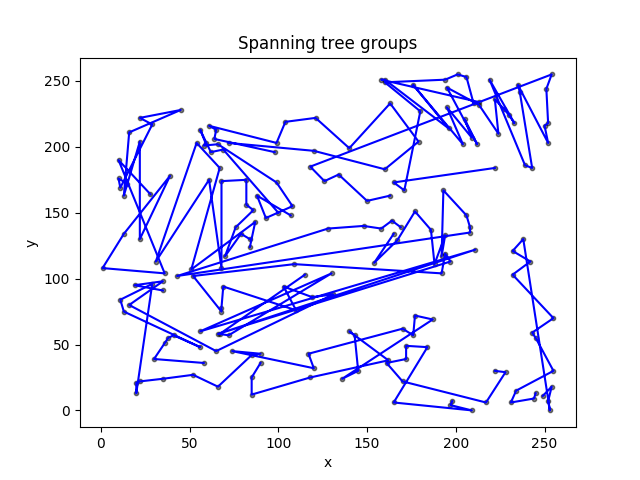
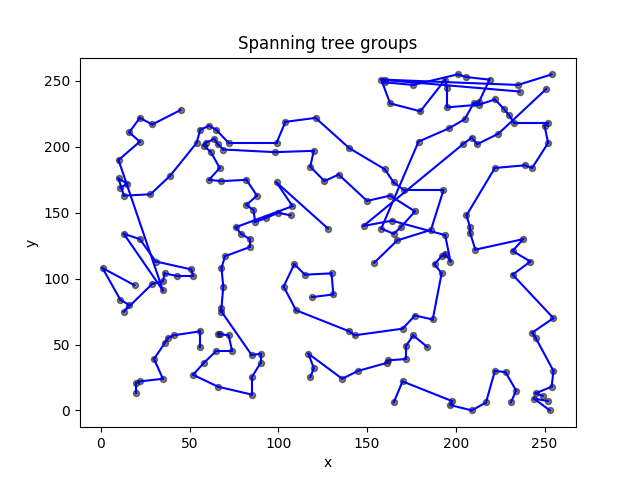
method, visualization and tests improved

Changed region(s): [[0.1562, 0.1562, 0.875, 0.875], [0.1875, 0.7812, 0.2188, 0.8438]]

diff --git a/controller.py b/controller.py
@@ -1,5 +1,6 @@
 import os
 import random
+import time
 import numpy as np
 from copy import deepcopy
 
@@ -13,45 +14,24 @@ class Controller:
     def createGraphsRandomMethod(self):
         allRandomPoints = random.sample(range(1, 201), 200)
         plotData = list(self._divideChunks(allRandomPoints, 20))
-        # check if sum is equal points number
 
         return plotData
 
     def _minValueNotZero(self, myList):
-        minVal = 99999
-        # print(myList)
+        minVal = 9999
+
         for x in myList:
             if float(x) != float(0) and x < minVal:
                 minVal = x
-
-        # print('choosed')
-        # print(minVal)
-
-        # if float(minVal) == float(0):
-        #     print('end with IS YES AS 0')
-        #     print(minVal)
-        # else:
-        #     print('end with NOT 0')
-        #     print(minVal)
-        #     print('myList')
-        #     print(myList)
-        #     print('INDEX IN FUNCTION')
-        #     print(myList.index(minVal))
-
-        # print('minVal')
-        # print(minVal)
 
         return minVal
 
     def test(self):
         tab = [215.87033144922904, 44.9221548904324, 34.713109915419565, 0.0, 48.25971404805462]
         tab2 = [215.87033144922904, 12.9221548904324, 34.713109915419565, 0.0, 48.25971404805462]
-        # tab = [19.924858845171276, 12.083045973594572]
-        # countRegret = self._countRegret(tab, 18)
         
         minIndex = tab.index(self._minValueNotZero(tab))
         minIndex2 = tab2.index(self._minValueNotZero(tab2))
-
 
         print(minIndex)
         print(minIndex2)
@@ -71,7 +51,7 @@ class Controller:
 
     def _countRegret(self, sortedArray, number):
         regret = 0
-        numberToCheck = 20 - number -1
+        numberToCheck = 20 - number - 1
 
         for index, element in enumerate(sortedArray):
             if index == 0: continue
@@ -89,6 +69,8 @@ class Controller:
         allRandomPoints = random.sample(range(1, 201), 10)
         # [[a],[b],...,[z]] 10 groups of 1 el.
         plotData = list(self._divideChunks(allRandomPoints, 1))
+        plotToVisualize = []
+
         for z in plotData:
             localMatrixData = self._zeroColumn(localMatrixData, z[0])
 
@@ -97,17 +79,20 @@ class Controller:
             minIndex = 0
             for item in itemList:
                 row = localMatrixData[item]
-                minIndex = row.index(self._minValueNotZero(row))
+                minValue = self._minValueNotZero(row)
+                minIndex = row.index(minValue)
             
             plotData[index].append((minIndex))
+            plotToVisualize.append([plotData[index][0], minIndex])
+            # print(plotToVisualize)
             localMatrixData = self._zeroColumn(localMatrixData, minIndex)
 
 
-        # for x in range(0, 20):
         needBreak = False
         steps = 0
+        # for x in range(0, 4):
         while True: 
-            steps +=2
+            steps += 1
             if needBreak: break
 
             for index, itemList in enumerate(plotData):
@@ -122,7 +107,10 @@ class Controller:
 
                 for itemIndex, item in enumerate(itemList):
                     row = localMatrixData[item]
-                    minIndex = row.index(self._minValueNotZero(row))
+
+                    minValue = self._minValueNotZero(row)
+                    minIndex = row.index(minValue)
+
                     minArray.append(minIndex)
 
                     rowCopy = row.copy()
@@ -130,15 +118,19 @@ class Controller:
 
                     regret = self._countRegret(rowCopy, len(itemList))
 
-                    if maxRegret < regret:
+                    if maxRegret > regret:
                         maxRegret = regret
                         maxRegretIndex = itemIndex
 
+
                 distance = localMatrixData[itemList[maxRegretIndex]][minArray[maxRegretIndex]]
+                
                 if distance < steps:
+                    plotToVisualize.append([minArray[maxRegretIndex], itemList[maxRegretIndex]])
                     plotData[index].insert(maxRegretIndex, minArray[maxRegretIndex])
                     localMatrixData = self._zeroColumn(localMatrixData, minArray[maxRegretIndex])
-        return plotData
+                    
+        return plotToVisualize
 
 
     def createGraphsNearestNeighborMethod(self, matrixData):
@@ -146,58 +138,177 @@ class Controller:
         allRandomPoints = random.sample(range(1, 201), 10)
         # [[a],[b],...,[z]] 10 groups of 1 el.
         plotData = list(self._divideChunks(allRandomPoints, 1))
+        plotToVisualize = []
+
         for z in plotData:
             localMatrixData = self._zeroColumn(localMatrixData, z[0])
+
+        for index, itemList in enumerate(plotData):
+            minIndex = 0
+            for item in itemList:
+                row = localMatrixData[item]
+                minValue = self._minValueNotZero(row)
+                minIndex = row.index(minValue)
+            
+            plotData[index].append((minIndex))
+            plotToVisualize.append([plotData[index][0], minIndex])
+            localMatrixData = self._zeroColumn(localMatrixData, minIndex)
+
 
         needBreak = False
         steps = 0
         while True: 
-            steps +=2
+            steps += 1
             if needBreak: break
+
             for index, itemList in enumerate(plotData):
+                maxRegretIndex = 0
+                maxRegret = 0
+                minValue = 1000
+                fromIndex = 0
                 minIndex = 0
 
+                regretArray = []
                 test = np.array(localMatrixData[0])
-                if np.all(test==0): 
+                if np.all(test == 0): 
                     needBreak = True
                     break
 
-                for item in itemList:
+                for itemIndex, item in enumerate(itemList):
                     row = localMatrixData[item]
-                    minIndex = row.index(self._minValueNotZero(row))
+
+                    tempMinValue = self._minValueNotZero(row)
+                    if minValue > tempMinValue:
+                        minValue = tempMinValue
+                        minIndex = row.index(minValue)
+                        fromIndex = item
+
+                distance = localMatrixData[itemList[itemIndex]][minIndex]
                 
-                plotData[index].append((minIndex))
-                localMatrixData = self._zeroColumn(localMatrixData, minIndex)
-                
-        return plotData
+                if distance < steps:
+                    plotToVisualize.append([itemList[itemIndex], minIndex])
+                    plotData[index].insert(fromIndex, minIndex)
+                    localMatrixData = self._zeroColumn(localMatrixData, minIndex)
+                    
+        return plotToVisualize
 
 
     def countDistance(self, plotData, matrixData):
         sumOfDistances = 0
 
         for itemList in plotData:
-            for index, item in enumerate(itemList):
-                if index == 0: continue
-                sumOfDistances += matrixData[itemList[index-1]][item]
+            sumOfDistances += matrixData[itemList[0]][itemList[1]]
         return sumOfDistances
 
 
-    def testMethod(self, matrixData):
+    def testRegretMethod(self, matrixData):
         minDistance = 10000
+        maxDistance = 0
+        avgDistance = 0
+        sumDistance = 0
+
+        minTime = 10000
+        maxTime = 0
+        avgTime = 0
+        sumTime = 0
+
         finalPlotData = []
 
         for x in range(0, 100):
+            start_time = time.time()
             plotData = self.createGraphsRegretMethod(matrixData)
+            elapsed_time = time.time() - start_time
+
+            milli_sec = int(round(elapsed_time * 1000))
             distance = self.countDistance(plotData, matrixData)
+            sumDistance += distance
+            sumTime += milli_sec
+
             if distance < minDistance:
                 minDistance = distance
                 finalPlotData = plotData
 
+            if distance > maxDistance:
+                maxDistance = distance
+
+            if milli_sec < minTime:
+                minTime = milli_sec
+
+            if milli_sec > maxTime:
+                maxTime = milli_sec
+
             print('iteration {} Current distance: {}'.format(x, distance))
             print('iteration {} Minimum distance: {}'.format(x, minDistance))
+            print('iteration {} MIN Time of execution: {}'.format(x, minTime))
+            print('iteration {} MAX Time of execution: {}'.format(x, maxTime))
+            print('iteration {} Time of execution: {}'.format(x, milli_sec))
             print('>>>>>>>---------<<<<<<<<')
 
-        
-        print('Final distance: '.format(minDistance))
+        avgDistance = sumDistance/100
+        avgTime = sumTime/100
+
+        print('Final minDistance: {}'.format(minDistance))
+        print('Final maxDistance: {}'.format(maxDistance))
+        print('Final avgDistance: {}'.format(avgDistance))
+
+        print('Final minTime: {}'.format(minTime))
+        print('Final maxTime: {}'.format(maxTime))
+        print('Final avgTime: {}'.format(avgTime))
+
+        return finalPlotData
+
+    def testMethodNeighbor(self, matrixData):
+        minDistance = 10000
+        maxDistance = 0
+        avgDistance = 0
+        sumDistance = 0
+
+        minTime = 10000
+        maxTime = 0
+        avgTime = 0
+        sumTime = 0
+
+        finalPlotData = []
+
+        for x in range(0, 100):
+            start_time = time.time()
+            plotData = self.createGraphsNearestNeighborMethod(matrixData)
+            elapsed_time = time.time() - start_time
+
+            milli_sec = int(round(elapsed_time * 1000))
+            distance = self.countDistance(plotData, matrixData)
+            sumDistance += distance
+            sumTime += milli_sec
+
+            if distance < minDistance:
+                minDistance = distance
+                finalPlotData = plotData
+
+            if distance > maxDistance:
+                maxDistance = distance
+
+            if milli_sec < minTime:
+                minTime = milli_sec
+
+            if milli_sec > maxTime:
+                maxTime = milli_sec
+
+            print('iteration {} Current distance: {}'.format(x, distance))
+            print('iteration {} Minimum distance: {}'.format(x, minDistance))
+            print('iteration {} MIN Time of execution: {}'.format(x, minTime))
+            print('iteration {} MAX Time of execution: {}'.format(x, maxTime))
+            print('iteration {} Time of execution: {}'.format(x, milli_sec))
+            print('>>>>>>>---------<<<<<<<<')
+
+        avgDistance = sumDistance/100
+        avgTime = sumTime/100
+
+        print('Final minDistance: {}'.format(minDistance))
+        print('Final maxDistance: {}'.format(maxDistance))
+        print('Final avgDistance: {}'.format(avgDistance))
+
+        print('Final minTime: {}'.format(minTime))
+        print('Final maxTime: {}'.format(maxTime))
+        print('Final avgTime: {}'.format(avgTime))
 
         return finalPlotData

diff --git a/main.py b/main.py
@@ -2,23 +2,32 @@ from representation import Representation
 from visualization import Visualization
 from controller import Controller
 
-def launch():
+def singleLaunch():
     rep = Representation()
     controller = Controller()
     matrixData = rep.getMatrixData()
     
-    # plotData = controller.test()
-
     plotData = controller.createGraphsRegretMethod(matrixData)
-    # distance = controller.countDistance(plotData, matrixData)
-    # print('sum of distances: {}'.format(distance))
-    
-    # plotData = controller.testMethod(matrixData)
-    # print('sum of distances: {}'.format(distance))
+    # plotData = controller.createGraphsNearestNeighborMethod(matrixData)
 
+    distance = controller.countDistance(plotData, matrixData)
+    print('sum of distances: {}'.format(distance))
 
     coordData = rep.getCoordData()
     visual = Visualization(coordData, plotData)
     visual.showScatterplotFromDict()
 
-launch()
+def hundredTest():
+    rep = Representation()
+    controller = Controller()
+    matrixData = rep.getMatrixData()
+    
+    plotData = controller.testRegretMethod(matrixData)
+    # plotData = controller.testMethodNeighbor(matrixData)
+
+    coordData = rep.getCoordData()
+    visual = Visualization(coordData, plotData)
+    visual.showScatterplotFromDict()
+
+singleLaunch()
+# hundredTest()

diff --git a/visualization.py b/visualization.py
@@ -60,14 +60,14 @@ class Visualization:
         # random.sample(range(1, 201), 20)
 
         colors = (0,0,0)
-        pointSize = np.pi*3
+        pointSize = np.pi*6
 
         # Visualize points
         scatterX = [x[0] for x in coordData]
         scatterY = [y[1] for y in coordData]
 
         plt.scatter(scatterX, scatterY, s=pointSize, c=colors, alpha=0.5)
-        
+        # print(self.plotData)
         # Visualize graphs
         for line in self.plotData:
             plotX = [coordData[index][0] for index in line]
@@ -80,6 +80,6 @@ class Visualization:
         plt.title('Spanning tree groups')
         plt.xlabel('x')
         plt.ylabel('y')
-        plt.savefig('output/regret100xtests_points.png')
+        plt.savefig('output/random_REAL_100_test_MST.png')
         print('showing visualization...')
         plt.show()
